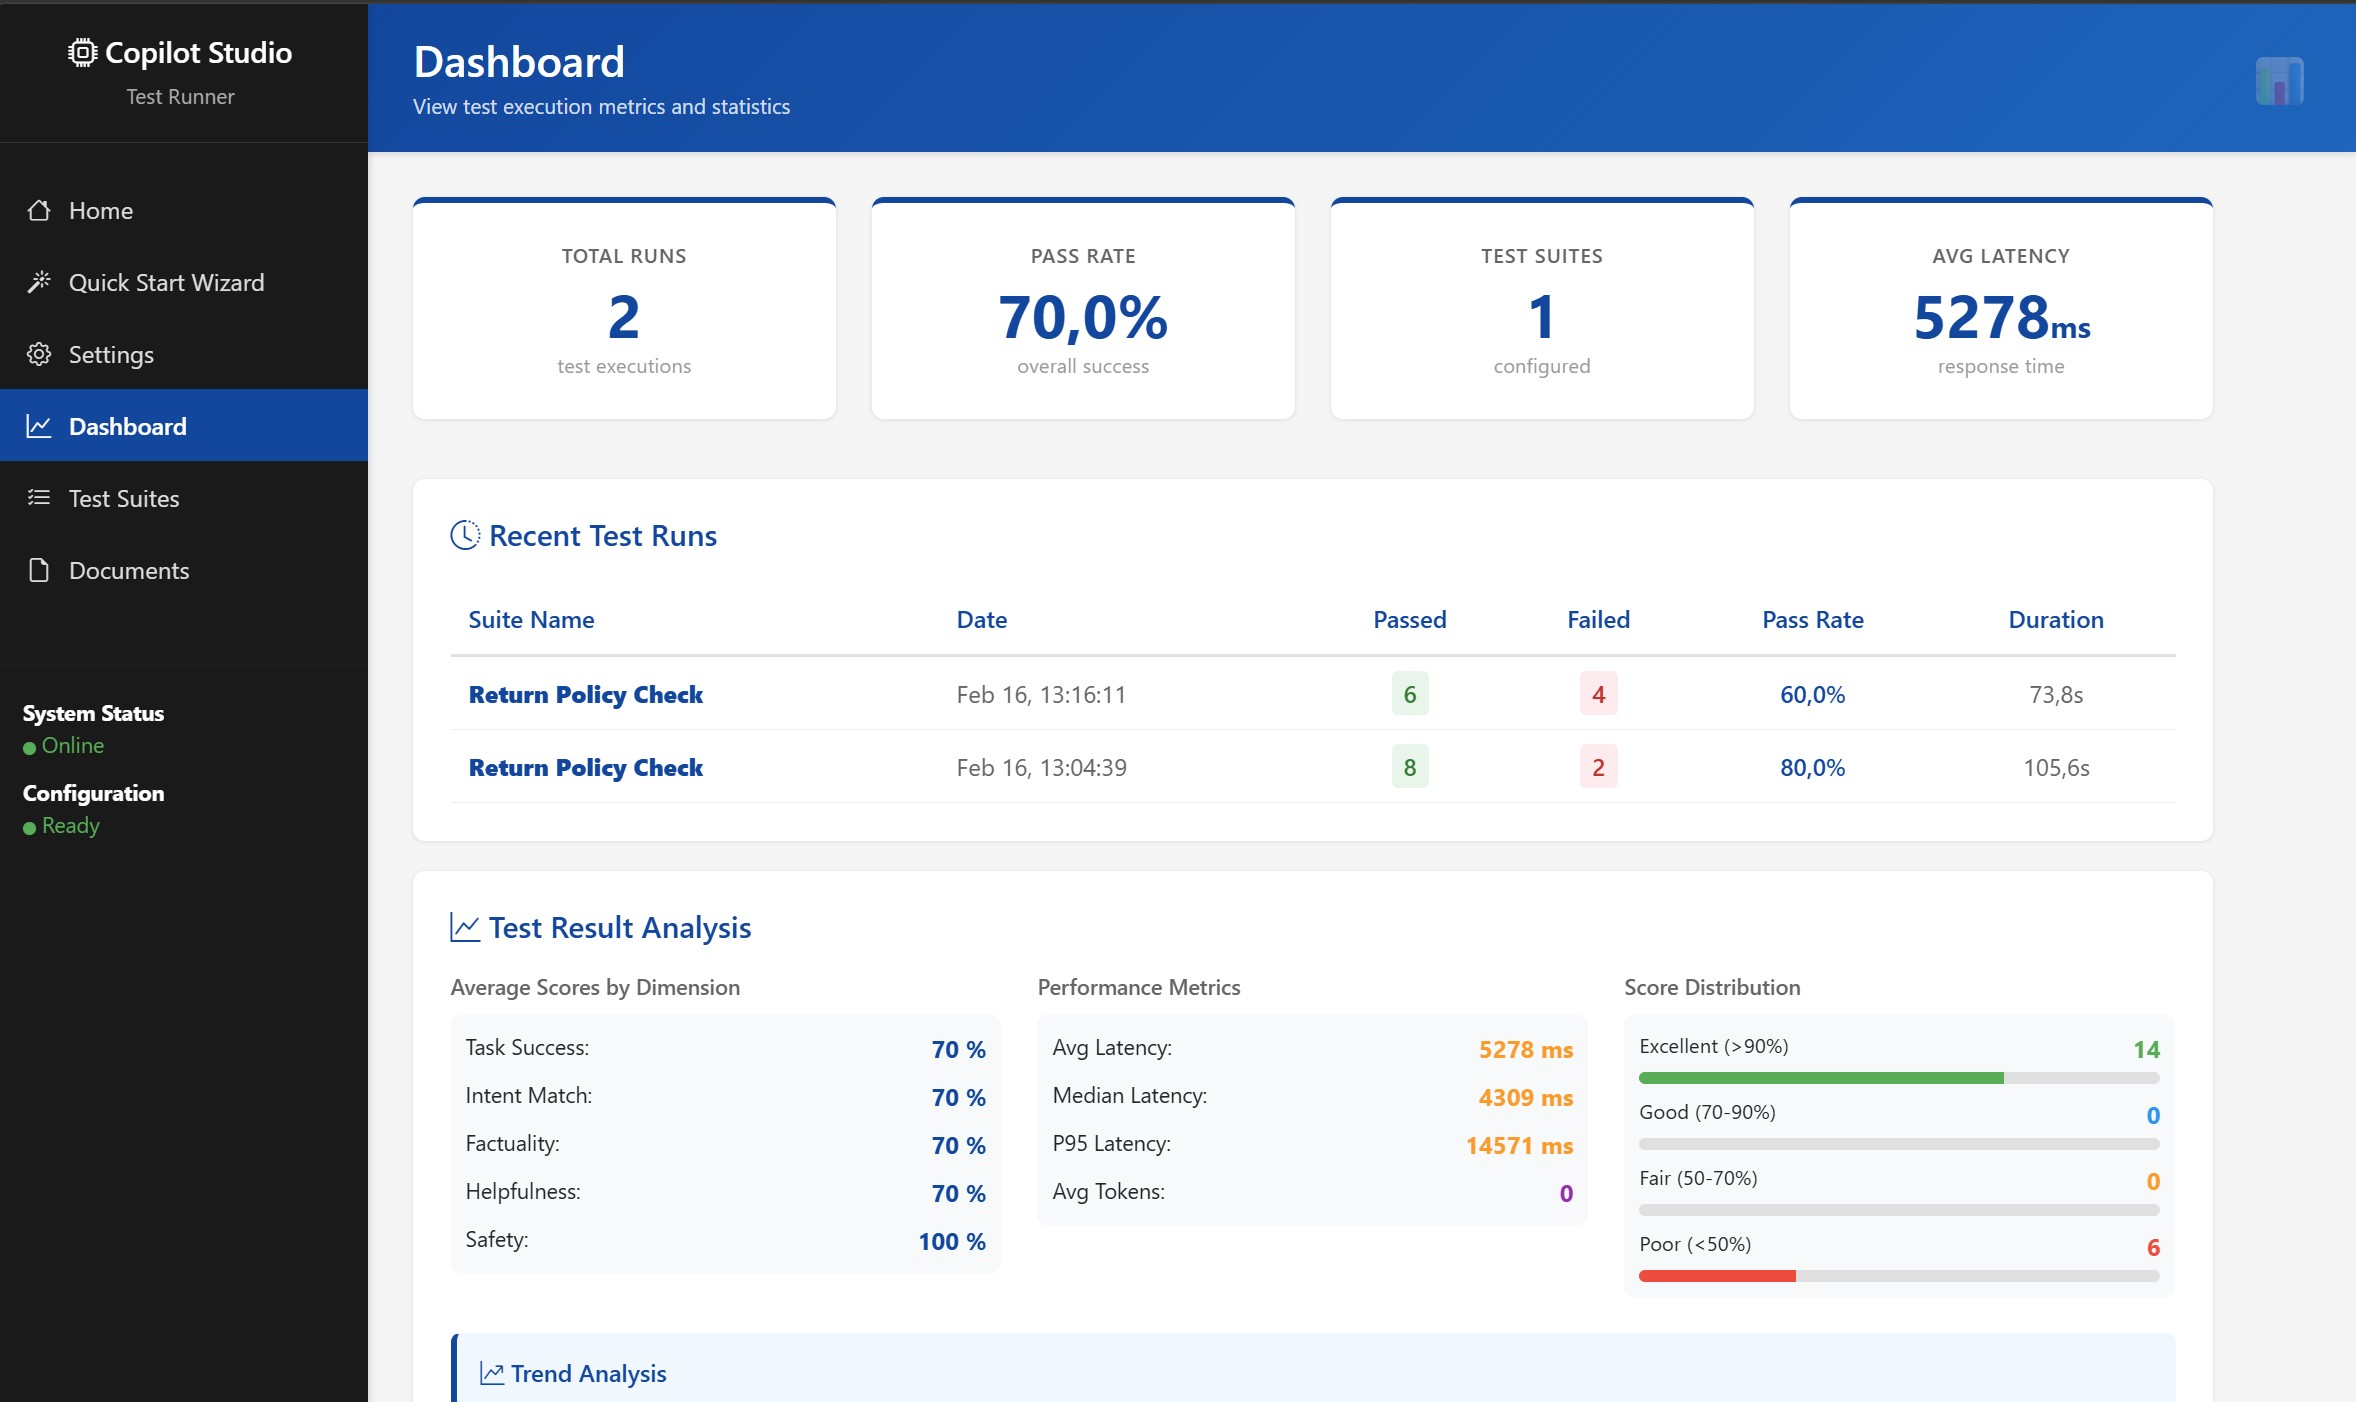
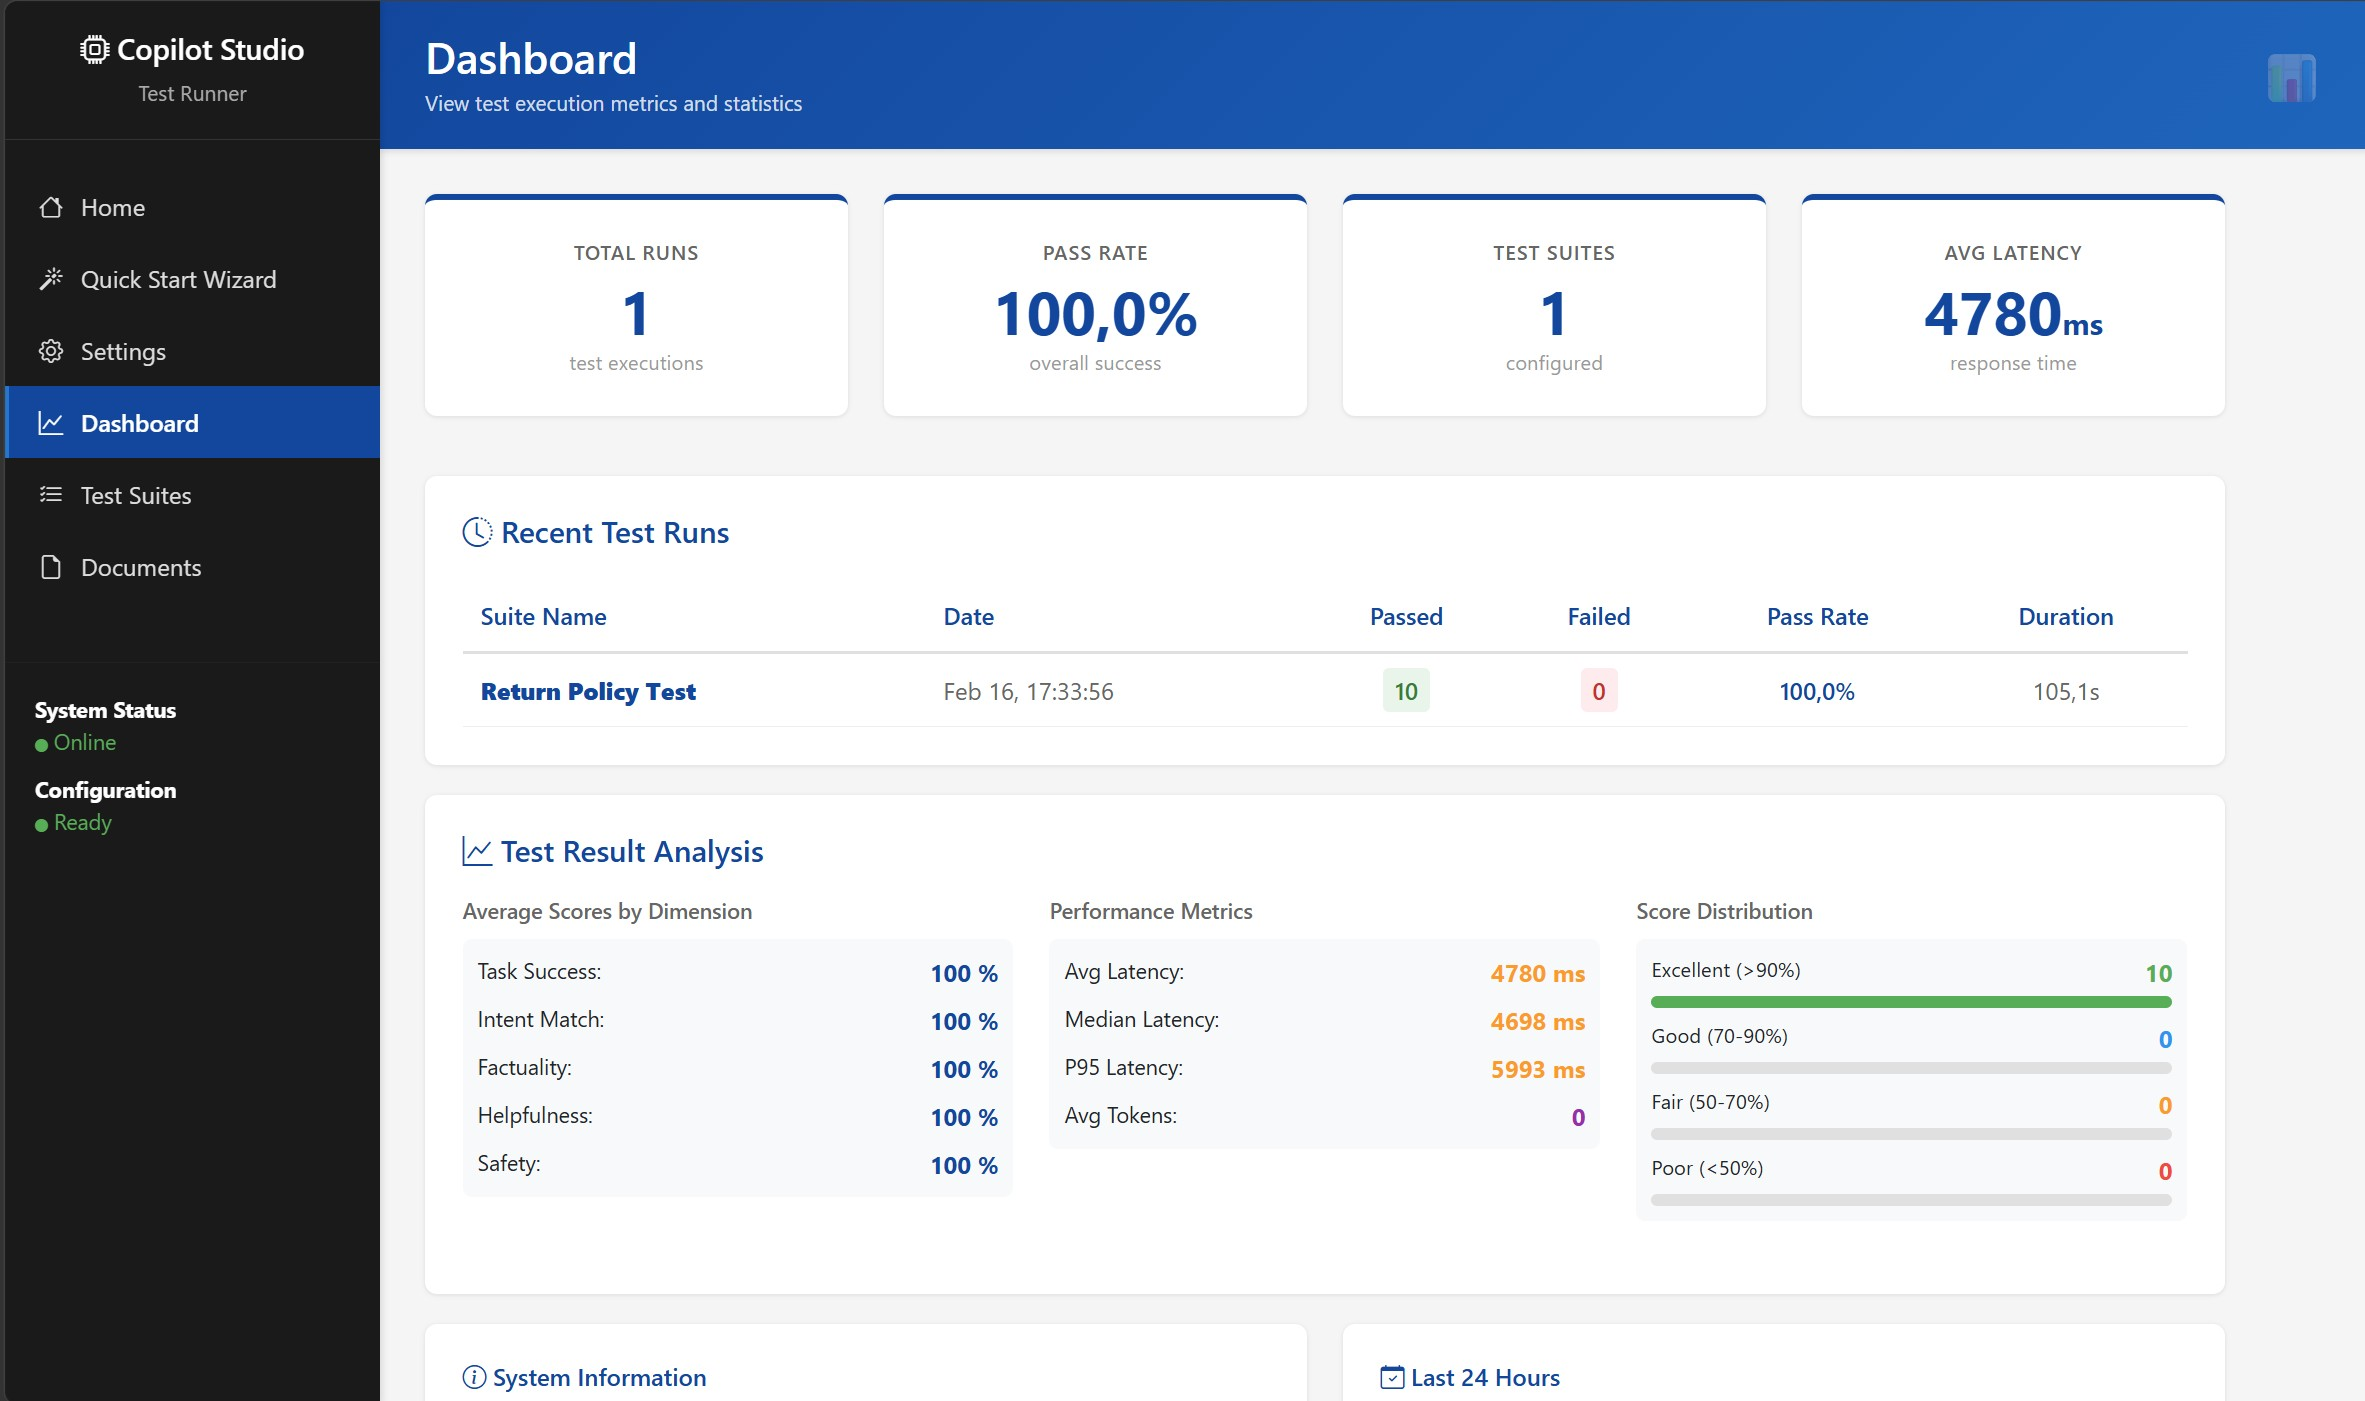
Implement retry logic for test case execution and adjust rate limit settings

diff --git a/CopilotStudioTestRunner.Core/Execution/TestExecutionService.cs b/CopilotStudioTestRunner.Core/Execution/TestExecutionService.cs
@@ -164,6 +164,93 @@ public class TestExecutionService : ITestExecutionService
         DirectLineSettings directLineSettings,
         CancellationToken cancellationToken)
     {
+        var maxRetries = directLineSettings.MaxRetries;
+        var backoffSeconds = directLineSettings.BackoffSeconds;
+
+        for (int attempt = 0; attempt <= maxRetries; attempt++)
+        {
+            try
+            {
+                var result = await ExecuteTestCaseAttemptAsync(
+                    testCase, 
+                    directLineClient, 
+                    judgeService, 
+                    judgeSettings, 
+                    directLineSettings, 
+                    cancellationToken);
+
+                // Check if the response contains a rate limit error
+                var hasRateLimitError = result.TranscriptMessages.Any(m => 
+                    m.Content?.Contains("GenAIToolPlannerRateLimitReached", StringComparison.OrdinalIgnoreCase) == true ||
+                    m.Content?.Contains("RateLimitReached", StringComparison.OrdinalIgnoreCase) == true);
+
+                if (hasRateLimitError && attempt < maxRetries)
+                {
+                    var delayMs = (int)(Math.Pow(2, attempt) * backoffSeconds * 1000);
+                    _logger.Warning(
+                        "Rate limit error detected for test case {TestCaseName}. Attempt {Attempt}/{MaxRetries}. Retrying in {DelayMs}ms...",
+                        testCase.Name, attempt + 1, maxRetries + 1, delayMs);
+                    
+                    await Task.Delay(delayMs, cancellationToken);
+                    continue; // Retry
+                }
+
+                if (hasRateLimitError)
+                {
+                    result.Verdict = "error";
+                    result.ErrorMessage = "Rate limit exceeded after all retry attempts";
+                    _logger.Error(
+                        "Rate limit error persisted for test case {TestCaseName} after {Attempts} attempts",
+                        testCase.Name, attempt + 1);
+                }
+
+                return result;
+            }
+            catch (Exception ex) when (attempt < maxRetries)
+            {
+                var delayMs = (int)(Math.Pow(2, attempt) * backoffSeconds * 1000);
+                _logger.Warning(ex, 
+                    "Test case {TestCaseName} failed on attempt {Attempt}/{MaxRetries}. Retrying in {DelayMs}ms...",
+                    testCase.Name, attempt + 1, maxRetries + 1, delayMs);
+                
+                await Task.Delay(delayMs, cancellationToken);
+            }
+            catch (Exception ex)
+            {
+                // Final attempt failed
+                _logger.Error(ex, "Test case {TestCaseName} failed after {Attempts} attempts", 
+                    testCase.Name, attempt + 1);
+                
+                return new Result
+                {
+                    Id = Guid.NewGuid(),
+                    TestCaseId = testCase.Id,
+                    ExecutedAt = DateTime.UtcNow,
+                    Verdict = "error",
+                    ErrorMessage = $"Failed after {attempt + 1} attempts: {ex.Message}"
+                };
+            }
+        }
+
+        // Should not reach here, but just in case
+        return new Result
+        {
+            Id = Guid.NewGuid(),
+            TestCaseId = testCase.Id,
+            ExecutedAt = DateTime.UtcNow,
+            Verdict = "error",
+            ErrorMessage = "Unexpected error: exceeded retry limit"
+        };
+    }
+
+    private async Task<Result> ExecuteTestCaseAttemptAsync(
+        TestCase testCase,
+        DirectLineClient directLineClient,
+        IJudgeService judgeService,
+        JudgeSetting judgeSettings,
+        DirectLineSettings directLineSettings,
+        CancellationToken cancellationToken)
+    {
         var result = new Result
         {
             Id = Guid.NewGuid(),
@@ -264,6 +351,8 @@ public class TestExecutionService : ITestExecutionService
             result.Verdict = evaluation.Verdict;
             result.JudgeRationale = evaluation.Rationale;
             result.JudgeCitations = evaluation.Citations?.ToArray() ?? [];
+
+            return result;
         }
         catch (OperationCanceledException)
         {
@@ -271,6 +360,7 @@ public class TestExecutionService : ITestExecutionService
             result.LatencyMs = stopwatch.ElapsedMilliseconds;
             result.Verdict = "skipped";
             result.ErrorMessage = "Execution cancelled";
+            return result;
         }
         catch (Exception ex)
         {
@@ -278,10 +368,9 @@ public class TestExecutionService : ITestExecutionService
             result.LatencyMs = stopwatch.ElapsedMilliseconds;
             result.Verdict = "error";
             result.ErrorMessage = ex.Message;
-            _logger.Error(ex, "Test case execution error");
+            _logger.Error(ex, "Test case attempt execution error");
+            throw; // Re-throw to allow retry logic to handle it
         }
-
-        return result;
     }
 
     private double CalculatePercentile(List<long> values, int percentile)

diff --git a/CopilotStudioTestRunner.Domain/Configuration/ConfigurationOptions.cs b/CopilotStudioTestRunner.Domain/Configuration/ConfigurationOptions.cs
@@ -25,7 +25,7 @@ public class JudgeSettings
 public class ExecutionSettings
 {
     public int MaxConcurrency { get; set; } = 5;
-    public int RateLimitPerMinute { get; set; } = 50;
+    public int RateLimitPerMinute { get; set; } = 20;
     public int Retries { get; set; } = 2;
     public int BackoffSeconds { get; set; } = 4;
 }
